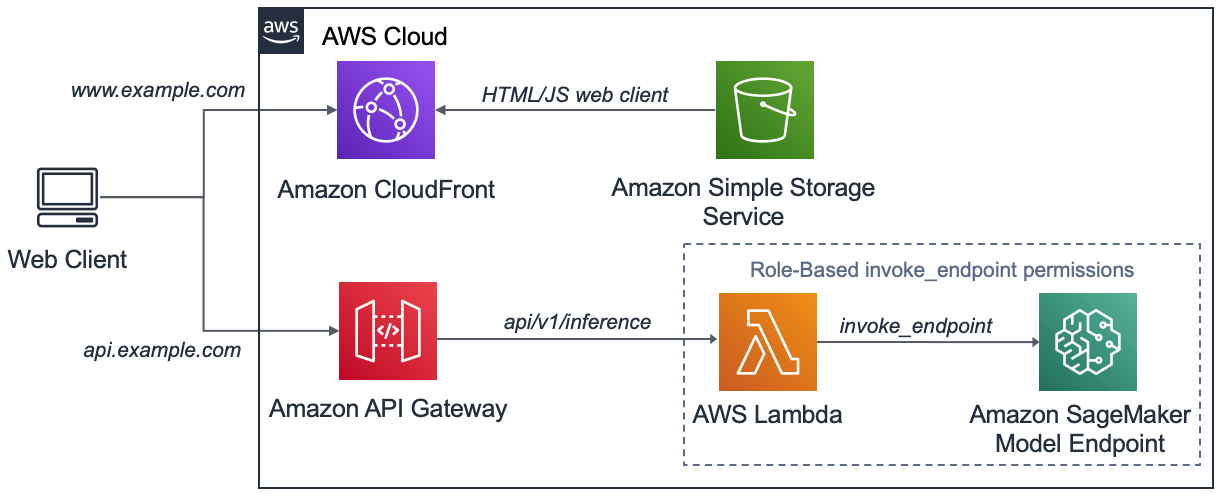
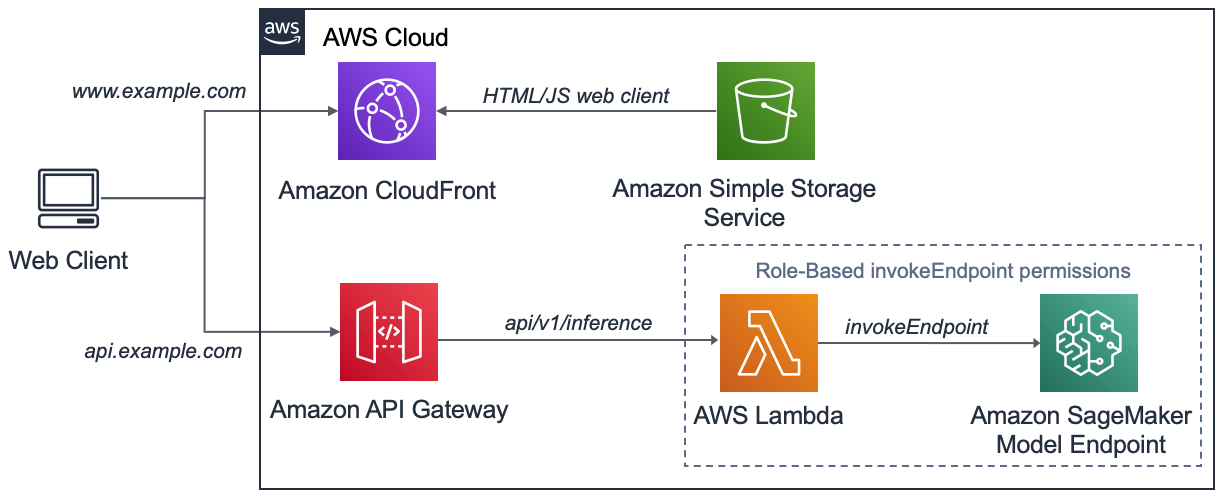
Updated README and architecture diagram

diff --git a/README.md b/README.md
@@ -1,25 +1,26 @@
-# Amazon Sagemaker Inference Endpoint Client Application:
+# Amazon Sagemaker Inference Endpoint Client Application
 
 ![Application Screen Shot](images/app-screenshot.png)
 
 Amazon SageMaker is a fully managed service that removes the heavy lifting from each step of the machine learning process to make it easier to develop and train high quality machine learning models. This is especially attractive to developers that want to incorporate machine learning outcomes onto their applications without having to build and managed every step of the process.
 
-Once trained, the machine learning model needs to be hosted and exposed in a way that makes it accessible to client applications and M2M services. A common way to do this is via an Amazon Sagemaker Endpoint which is a service optimised to hosts machine learning models and to present an authenticated public interface that can be consumed by end user applications.
+Once trained, the machine learning model needs to be hosted and exposed in a way that makes it accessible to client applications and M2M services. A common way to do this is via an Amazon Sagemaker Endpoint which is a service optimised to hosts machine learning models and presents an authenticated public interface that can be consumed by end user applications.
 
-The application code presented in this repository consists of a native JavaScript (Bootstrap4) web client and a backend NodeJS AWS Lambda and Amazon API Gateway configuration that provides an end to end example of how to perform an object detection inference against an Amazon Sagemaker Endpoint. The web client in this example overlays visual bounding boxes and text output of a user provided image submitted against the Amazon SageMaker Endpoint as displayed above.
+The application code presented in this repository consists of a native JavaScript (Bootstrap4) web client and a backend NodeJS AWS Lambda and Amazon API Gateway configuration. This provides an end to end example of how to perform an object detection inference against an Amazon Sagemaker Endpoint. The web client in this example overlays visual bounding boxes and text output of a user provided image submitted against the Amazon SageMaker Endpoint as displayed above.
 
-#### AWS Amplify
-In addition to the application stack, AWS Amplify is used to provide a highly opinionated, secure, scalable and cost optimised deployment of the AWS services described further removing the heavy lifting of managing cloud or physical infrastructure from the developer. Through this process and with just a few commands we can deploy the full application stack ready to incorporate object detection inference from our web client. See (AWS Amplify)[https://docs.amplify.aws/] for more detail.  
+## AWS Amplify
+In addition to the application stack, AWS Amplify is used to manage a highly opinionated, secure, scalable and cost optimised deployment of the AWS services described. In doing so, further removing the heavy lifting of managing cloud or physical infrastructure from the developer to host the application. Through this process and with just a few commands, we can deploy the full application stack ready to incorporate object detection inference from our web client. See (AWS Amplify)[https://docs.amplify.aws/] for more detail.  
 
-The following diagram shows the application architecture:
+## Application Architecture:
+The application architecture is shown in the following diagram:
 ![Application Stack Architecture](images/architecture.png)
 
 While provided as a code example, this application has also proven to be a useful tool to quickly visualize and validate when developing and optimising Amazon Sagemaker object detection models.
 
-#### AWS Lambda role based permissions
-Amazon Sagemaker Endpoints present an authenticated interface to the Internet so it’s reasonable to ask why we need to route the inference request via the Amazon API Gateway and the AWS Lambda. The reason in this example is so we can use Amazon IAM role-based permissions to allow the AWS Lambda to invoke the Sagemaker Endpoint without the need for the end-user to authenticate themselves in the web client. In this case, an unauthenticated request is received by the AWS Lambda which by virtue of the invoke_endpoint role-based permission is able to forward the request to the Sagemaker Endpoint. This architecture should be considered for secure environments. 
+## AWS Lambda role based permissions
+Amazon Sagemaker Endpoints present an authenticated interface to the Internet so it’s reasonable to ask why we need to route the inference request via the Amazon API Gateway and the AWS Lambda. The reason in this example is so we can use AWS IAM role-based permissions to allow the Lambda to invoke the Sagemaker Endpoint without the need for the end-user to authenticate themselves in the web client. In this case, an unauthenticated request is received by the Lambda which by virtue of the sagemaker:invokeEndpoint role-based permission is able to forward the request to the Sagemaker Endpoint. This architecture should be considered for secure environments. 
 
-#### Hosting an object detection model
+## Hosting an object detection model
 The intent of this exercise is not to cover the building and training of an Amazon Sagemaker object detection model. There are plenty of great resources already covering this such as [Object Detection using the Image and JSON format¶](https://github.com/awslabs/amazon-sagemaker-examples/blob/master/introduction_to_amazon_algorithms/object_detection_pascalvoc_coco/object_detection_image_json_format.ipynb)
 
 If you don't have a model and just want to get started, we have provided an object detection model for download at **TBA**. This model has been trained to detect the rear of cars and other vehicles and is what we will be using in this example. To deploy it follow the instructions at: **TBA**
@@ -122,7 +123,7 @@ In the previous step, AWS Amplify created an AWS Cloudformation template to depl
 cp -r lambda-function/src/ amplify/backend/function/awsamplifysagemaker/src/
 ```
 
-#### Deploy the application stack and publish the client-side code.
+#### Push the application stack and publish the client-side code.
 
 The above commands configured the automation scripts to deploy an optimised hosting stack but AWS Amplify only saved these locally in the **amplify** directory that was created with the ```amplify init``` command.
 
